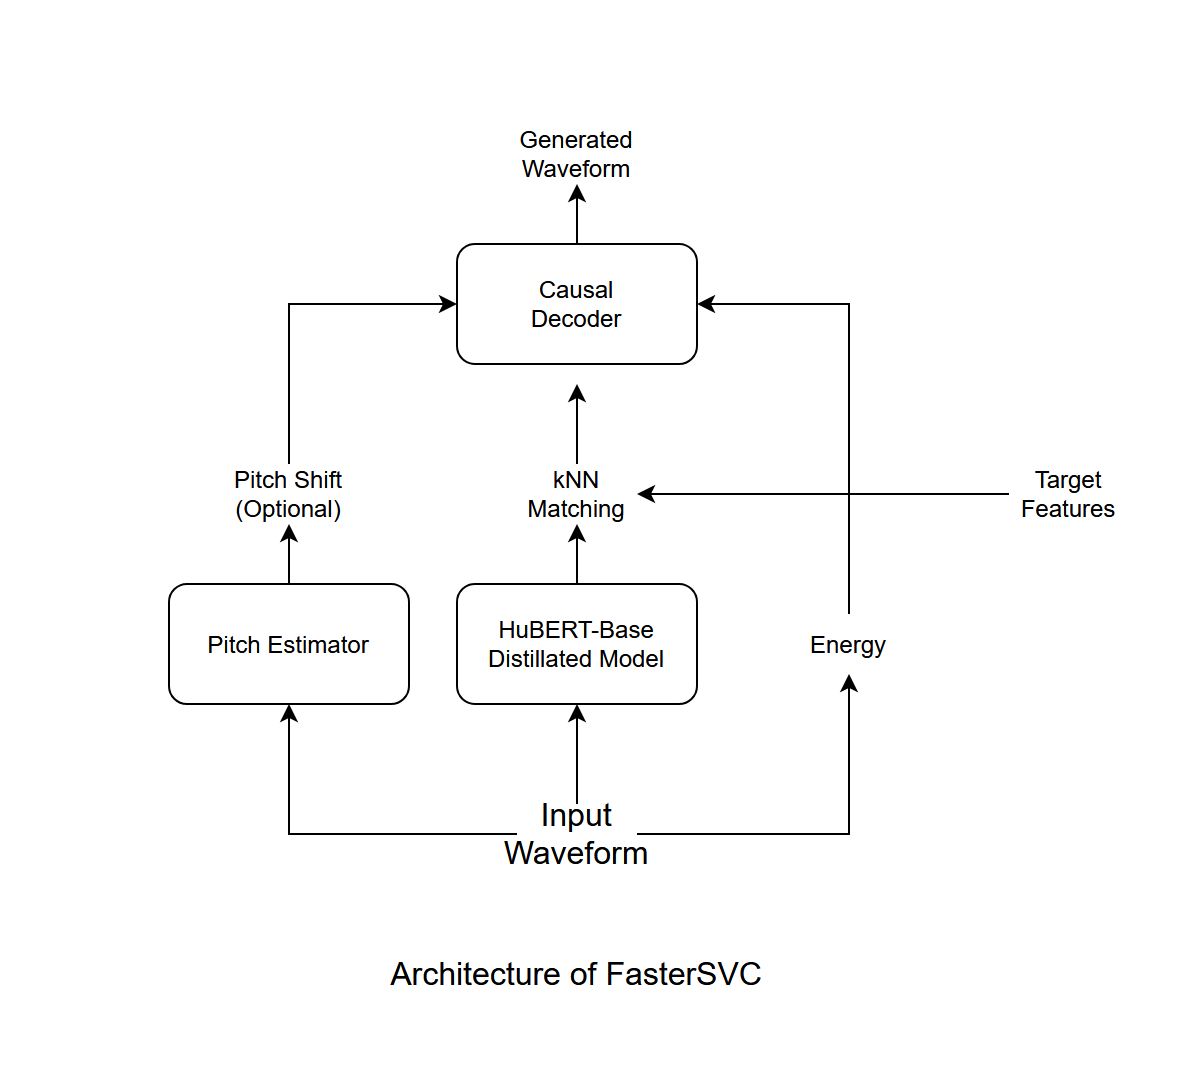
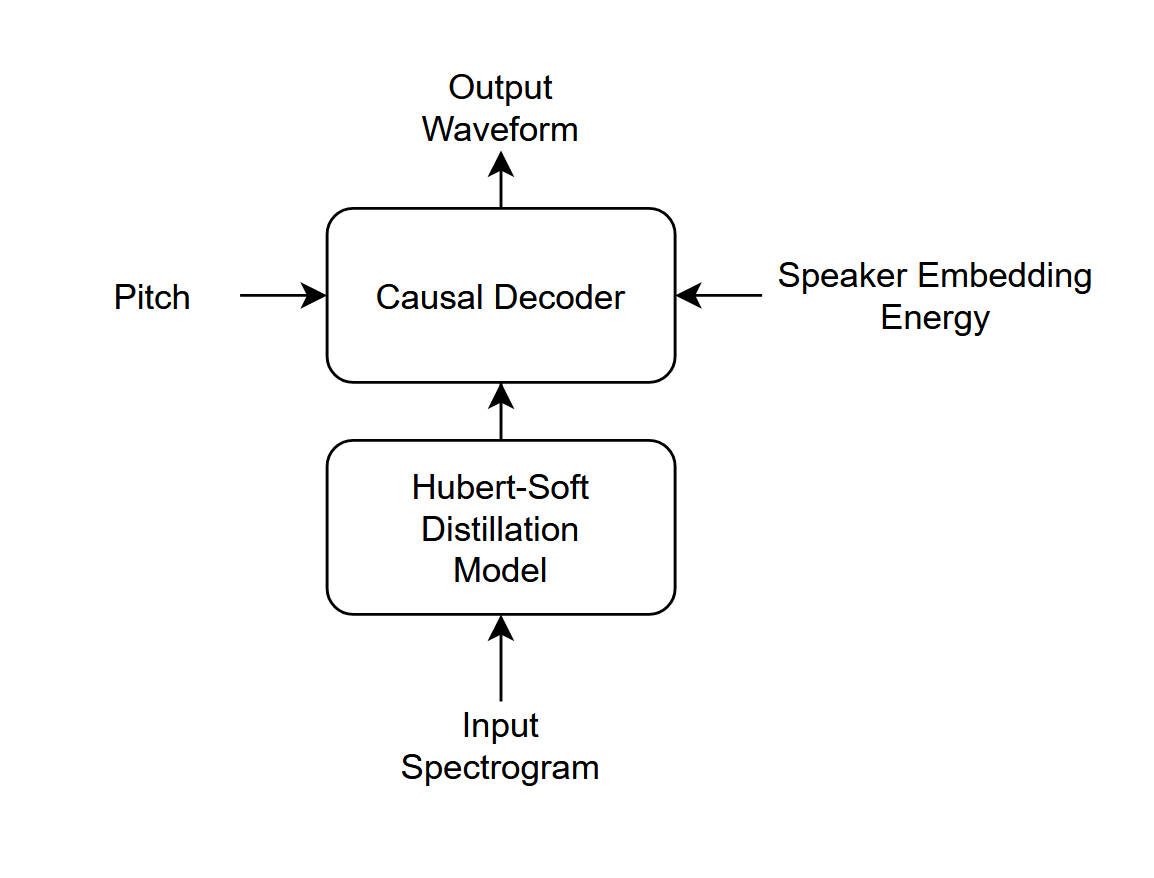
update documentation

diff --git a/README.md b/README.md
@@ -1,113 +1,113 @@
-# FasterSVC: Fast voice conversion based distillated models and kNN method
-(This repository is in the experimental stage. The content may change without notice.)
+# FasterSVC: Lightweight AI voice changer
+(This repository is experimental. Contents are subject to change without notice.)
 
-Other languages  
-- [日本語](documents/README_ja.md)
+# Other languages
+- [日本語](./documents/README_ja.md)
 
-## Model architecture
-![Architecture](images/fastersvc_architecture.png)
-The structure of the decoder is designed with reference to FastSVC, StreamVC, Hifi-GAN, etc.
+## Model structure
+![Architecture](./images/fastersvc_architecture.png)
+The structure of the decoder is designed with reference to FastSVC, NeuCoSVC, etc.
 Low latency is achieved by using a "causal" convolution layer that does not refer to future information.
 
 ## Features
-- Realtime conversion
-- Low latency (approximately 0.2 seconds, subject to change based on the environment and optimizations)
-- Stable phase and pitch (based on the source-filter model)
-- Speaker style conversion using k-nearest neighbors (kNN) method
+- Real-time conversion
+- Low latency (approximately 0.2 seconds, may vary depending on environment and optimization.)
+- Phase and pitch are stable (based on source filter model)
 
-## Requirements
+## Things necessary
 - Python 3.10 or later
-- PyTorch 2.0 or later with GPU environment
--  When training from scratch, prepare a large amount of human speech data (e.g., LJ Speech, JVS Corpus)
+- PyTorch 2.0 or later and GPU environment
+- When training with full scratch, prepare a large amount of human voice data. (LJ Speech, JVS Corpus, etc.)
 
-## Installation
-1. clone this repository.
+## install
+1. Clone this repository
 ```sh
 git clone https://github.com/uthree/fastersvc.git
-```
-2. install requirements
+````
+2. Install dependencies
 ```sh
 pip3 install -r requirements.txt
-```
-
-## Download pretrained model
+````
+## Download the pre-trained model
 The model pretrained with the JVS corpus is published [here](https://huggingface.co/uthree/fastersvc-jvs-corpus-pretrained).
 
-## Pre-training
-Train a model for basic voice conversion. At this stage, the model is not specialized for a specific speaker, but having a model that can perform basic voice synthesis allows for easy adaptation to a specific speaker with minimal adjustments.
+## Preliminary learning
+Learn a model that performs basic speech conversion. At this stage, the model is not specialized for a specific speaker, but by preparing a model that can perform basic speech synthesis in advance, you can create a model that is specialized for a specific speaker with just a few adjustments. can be learned.
 
-Here are the steps:
-
-1. Train pitch estimator.
-Distill pitch estimation using a fast and parallelizable 1D CNN with the harvest algorithm from WORLD.
-```sh
-python3 train_pe.py <dataset path>
-```
-
-2. Train content encoder
-Distill HuBERT-base. According to the WavLM paper, the 4th, 9th layer contains speaker information and phoneme infomation, so it is distilled. (Speaker classification can be performed using linear transformation from the features in the fourth layer.)
-```sh
-python3 train_ce.py <dataset path>
-```
-
-3. Train decoder
-The goal of the decoder is to reconstruct the original waveform from pitch and content.
-
-sh
-```sh
-python3 train_dec.py <datset.path>
-```
-
-## Fine-tuning
-By adjusting the pre-trained model to a model specialized for conversion to a specific speaker, it is possible to create a more accurate model. This process takes much less time than pre-learning.
-1. Combine only the audio files of a specific speaker into one folder.
-2. Fine tune the decoder.
-```sh
-python3 train_dec.py <Folder containing only audio files of a specific speaker>
+### Arrangement of training data
+You need to arrange it as follows.
 ````
-3. Create a dictionary for vector search. This eliminates the need to encode audio files each time.
+dataset
+├────speaker0
+│ ├───xxx1-xxx1.wav
+│ ├───...
+│ └───Lxx-0xx8.wav
+└────speaker1
+     ├───xx2-0xxx2.wav
+     ├────...
+     └────xxx7-xxx007.wav
+````
+Place audio from the same speaker in the same directory.
+
+1. Pretreatment
+Preprocess the dataset.
 ```sh
-python3 extract_index.py <Folder containing only audio files of a specific speaker> -o <Dictionary output destination (optional)>
-```
-4. When inferring, you can load arbitrary dictionary data by adding the `-idx <dictionary file>` option.
+python3 preprocess.py <dataset path>
+````
 
-## Training Options
-- add `-fp16 True` to accelerate training with float16 if you have RTX series GPU.
-- add `-b <number>` to set batch size. default is `16`.
-- add `-e <number>` to set epoch. default is `60`.
-- add `-d <device name>` to set training device, default is `cuda`.
+2. Training the pitch estimator
+Pitch estimation using WORLD's harvest algorithm is distilled using a one-dimensional CNN that can be processed in high speed and in parallel.
+```sh
+python3 train_pe.py
+````
 
-## Inference
-1. Create an directory `inputs`
-2. Put audio files in `inputs`
-3. Run inference script
+3. Learn content encoder.
+Distill HuBERT-soft.
+```sh
+python3 train_ce.py
+````
+
+4. Learn decoder
+The decoder's goal is to reconstruct the original waveform from the pitch and content.
+
+```sh
+python3 train_dec.py
+````
+
+### Learning options
+- Adding `-fp16 True` allows learning using 16-bit floating point numbers. Possible only for RTX series GPUs. However, stability may decrease.
+- Change batch size with `-b <number>`. Default is `16`.
+- Change epoch number with `-e <number>`. Default is `60`.
+- Change the computing device with `-d <device name>`. Default is `cuda`.
+
+## Reasoning
+1. Create an `inputs` folder.
+2. Put the audio file you want to convert into the `inputs` folder
+3. Run the inference script
 ```sh
 python3 infer.py -t <target audio file>
-```
+````
 
 ### Additional options
 - You can set the transparency of the original audio information with `-a <number from 0.0 to 1.0>`.
 - You can normalize the volume with `--normalize True`.
-- You can change the calculation device with `=d <device name>`. Although it may not make much sense since it is originally high speed.
+- You can change the calculation device with `-d <device name>`. Although it may not make much sense since it is originally high speed.
 - Pitch shift can be performed with `-p <scale>`. Useful for voice conversion between men and women.
 
-## Realtime Inference with PyAudio (This is a feature in the testing stage)
-1. Confirm the ID of the audio device
+## Real-time inference with pyaudio (feature in testing stage)
+1. Check the ID of your audio device
 ```sh
 python3 audio_device_list.py
-```
+````
 
-2. Run inference
+2. Execution
 ```sh
-python3 infer_streaming.py -i <input device id> -o <output device id> -l <loopback device id> -t <target audio file>
-```
-(The loopback option is optional.)
+python3 infer_streaming.py -i <input device ID> -o <output device ID> -l <loopback device ID> -t <target audio file>
+````
+(It works even without the loopback option.)
 
 ## References
 - [FastSVC](https://arxiv.org/abs/2011.05731)
-- [kNN-VC](https://arxiv.org/abs/2305.18975)
-- [WavLM](https://arxiv.org/pdf/2110.13900.pdf) (Fig. 2)
-- [StreamVC](https://arxiv.org/abs/2401.03078v1)
-- [Hifi-GAN](https://arxiv.org/abs/2010.05646)
+- [NeuCoSVC](https://arxiv.org/abs/2312.04919)
 
-This document is translated from Japanese using ChatGPT.
+(translated using Google Translate)

diff --git a/documents/README_ja.md b/documents/README_ja.md
@@ -1,16 +1,15 @@
-# FasterSVC : 蒸留モデルとk近傍法に基づく高速な声質変換
+# FasterSVC : 軽量なAIボイスチェンジャー
 (このリポジトリは実験段階のものです。内容は予告なく変更される場合があります。)
 
 ## モデル構造
 ![Architecture](../images/fastersvc_architecture.png)
-デコーダーの構造はFastSVCやStreamVC, Hifi-GAN等を参考に設計。
+デコーダーの構造はFastSVC, NeuCoSVC等を参考に設計。
 未来の情報を参照しない"Causal"な畳み込み層を使用することで低遅延を実現。
 
 ## 特徴
 - リアルタイム変換
 - 低遅延 (約0.2秒程度、環境や最適化によって変化する可能性あり。)
 - 位相とピッチが安定している (ソースフィルタモデルに基づく。)
-- k近傍法による話者スタイル変換
 
 ## 必要なもの
 - Python 3.10 以降
@@ -32,41 +31,48 @@ JVSコーパスで事前学習したモデルを[こちら](https://huggingface.
 ## 事前学習
 基礎的な音声変換を行うモデルを学習する。この段階では特定の話者に特化したモデルになるわけではないが、基本的な音声合成ができるモデルをあらかじめ用意しておくことで、少しの調整だけで特定の話者に特化したモデルを学習することができる。
 
-以下に手順を示す。
-1. ピッチ推定器を学習  
+### 学習データの配置
+以下のような配置にする必要がある。
+```
+dataset
+├───speaker0
+│   ├───xxx1-xxx1.wav
+│   ├───...
+│   └───Lxx-0xx8.wav
+└───speaker1
+    ├───xx2-0xxx2.wav
+    ├───...
+    └───xxx7-xxx007.wav
+```
+同じ話者の音声を同じディレクトリ内に配置する。
+
+1. 前処理
+データセットの前処理を行う。
+```sh
+python3 preprocess.py <dataset path>
+```
+
+2. ピッチ推定器を学習  
 WORLDのharvestアルゴリズムによるピッチ推定を高速かつ並列に処理可能な1次元CNNで蒸留する。
 ```sh
-python3 train_pe.py <dataset path>
+python3 train_pe.py
 ```
 
-2. コンテンツエンコーダーを学習。  
-HuBERT-baseを蒸留する。WavLMの論文によると、第4, 9層に話者と音素情報が含まれているので、それを蒸留する。(第4層の特徴量から線形変換で話者分類ができる。)
+3. コンテンツエンコーダーを学習。  
+HuBERT-softを蒸留する。
 ```sh
-python3 train_ce.py <dataset path>
+python3 train_ce.py
 ```
 
-3. デコーダーを学習  
+4. デコーダーを学習  
 デコーダーは、ピッチとコンテンツから元の波形を再構築することを目標とする。
 
 ```sh
-python3 train_dec.py <datset.path>
+python3 train_dec.py
 ```
-
-## ファインチューニング
-事前学習したモデルを、特定話者への変換に特化したモデルに調整することによって、より精度の高いモデルを製作することが可能です。この工程は事前学習と比べて非常に少ない時間で完了します。
-1. 特定話者の音声ファイルのみを一つのフォルダにまとめる。
-2. デコーダーをファインチューニングする。
-```sh
-python3 train_dec.py <特定話者の音声ファイルだけがあるフォルダ>
-```
-3. ベクトル検索用の辞書を作成する。これにより毎回音声ファイルをエンコードする必要がなくなります。
-```sh
-python3 extract_index.py <特定話者の音声ファイルだけがあるフォルダ> -o <辞書の出力先(任意)>
-```
-4. 推論する際は`-idx <辞書ファイル>`オプションをつけることで任意の辞書データを読み込むことができます。
 
 ### 学習オプション
-- `-fp16 True` をつけると16ビット浮動小数点数による学習が可能。RTXシリーズのGPUの場合のみ可能。
+- `-fp16 True` をつけると16ビット浮動小数点数による学習が可能。RTXシリーズのGPUの場合のみ可能。ただし安定性が低下する場合がある。
 - `-b <number>` でバッチサイズを変更。デフォルトは `16`。
 - `-e <number>` でエポック数を変更。 デフォルトは `60`。
 - `-d <device name>` で演算デバイスを変更。 デフォルトは`cuda`。
@@ -99,8 +105,4 @@ python3 infer_streaming.py -i <入力デバイスID> -o <出力デバイスID> -
 
 ## 参考文献
 - [FastSVC](https://arxiv.org/abs/2011.05731)
-- [kNN-VC](https://arxiv.org/abs/2305.18975)
-- [WavLM](https://arxiv.org/pdf/2110.13900.pdf) (Fig. 2)
-- [StreamVC](https://arxiv.org/abs/2401.03078v1)
-- [Hifi-GAN](https://arxiv.org/abs/2010.05646)
-- [AdaIN](https://arxiv.org/abs/1703.06868)
+- [NeuCoSVC](https://arxiv.org/abs/2312.04919)
